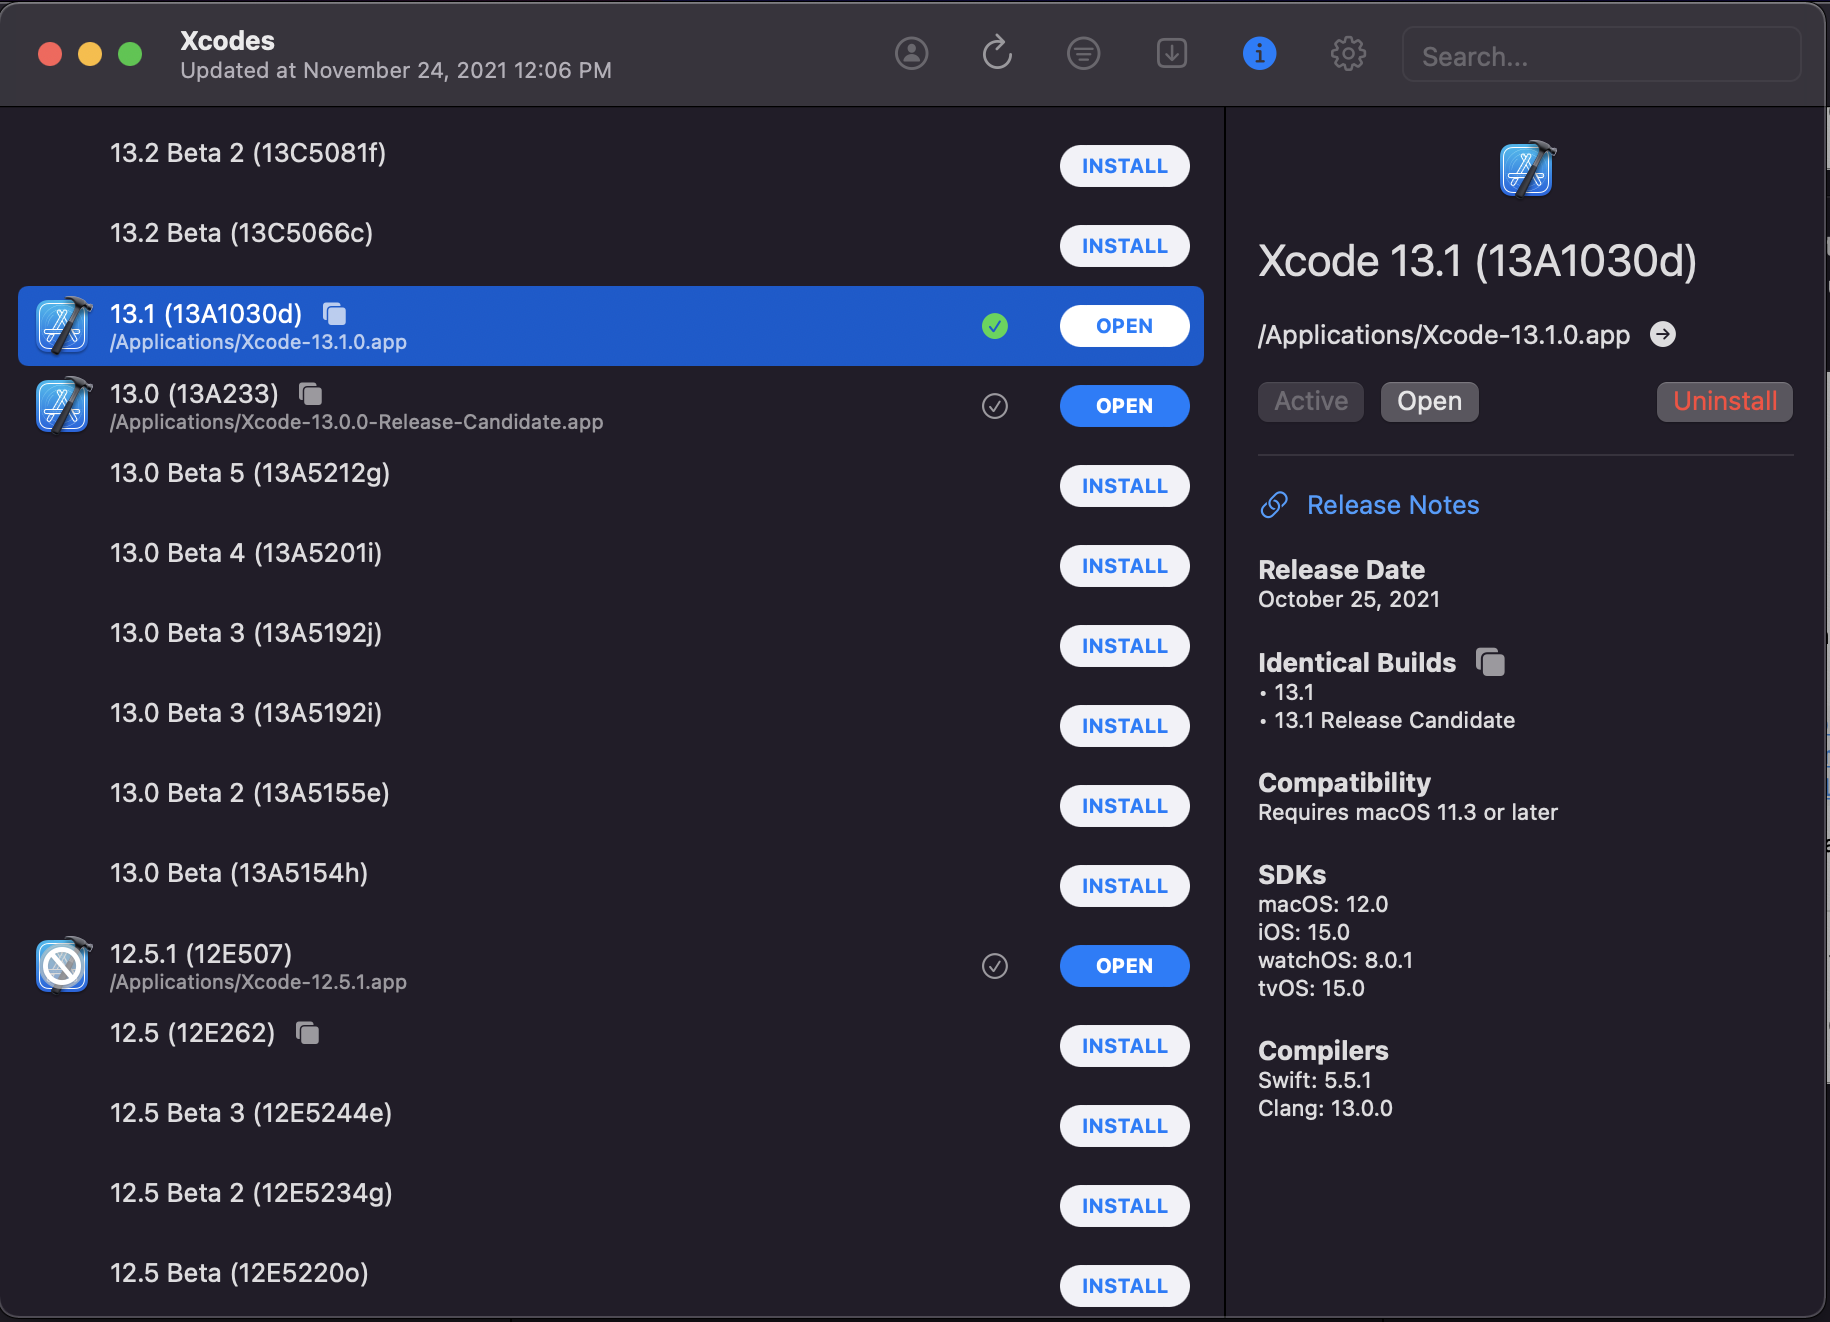
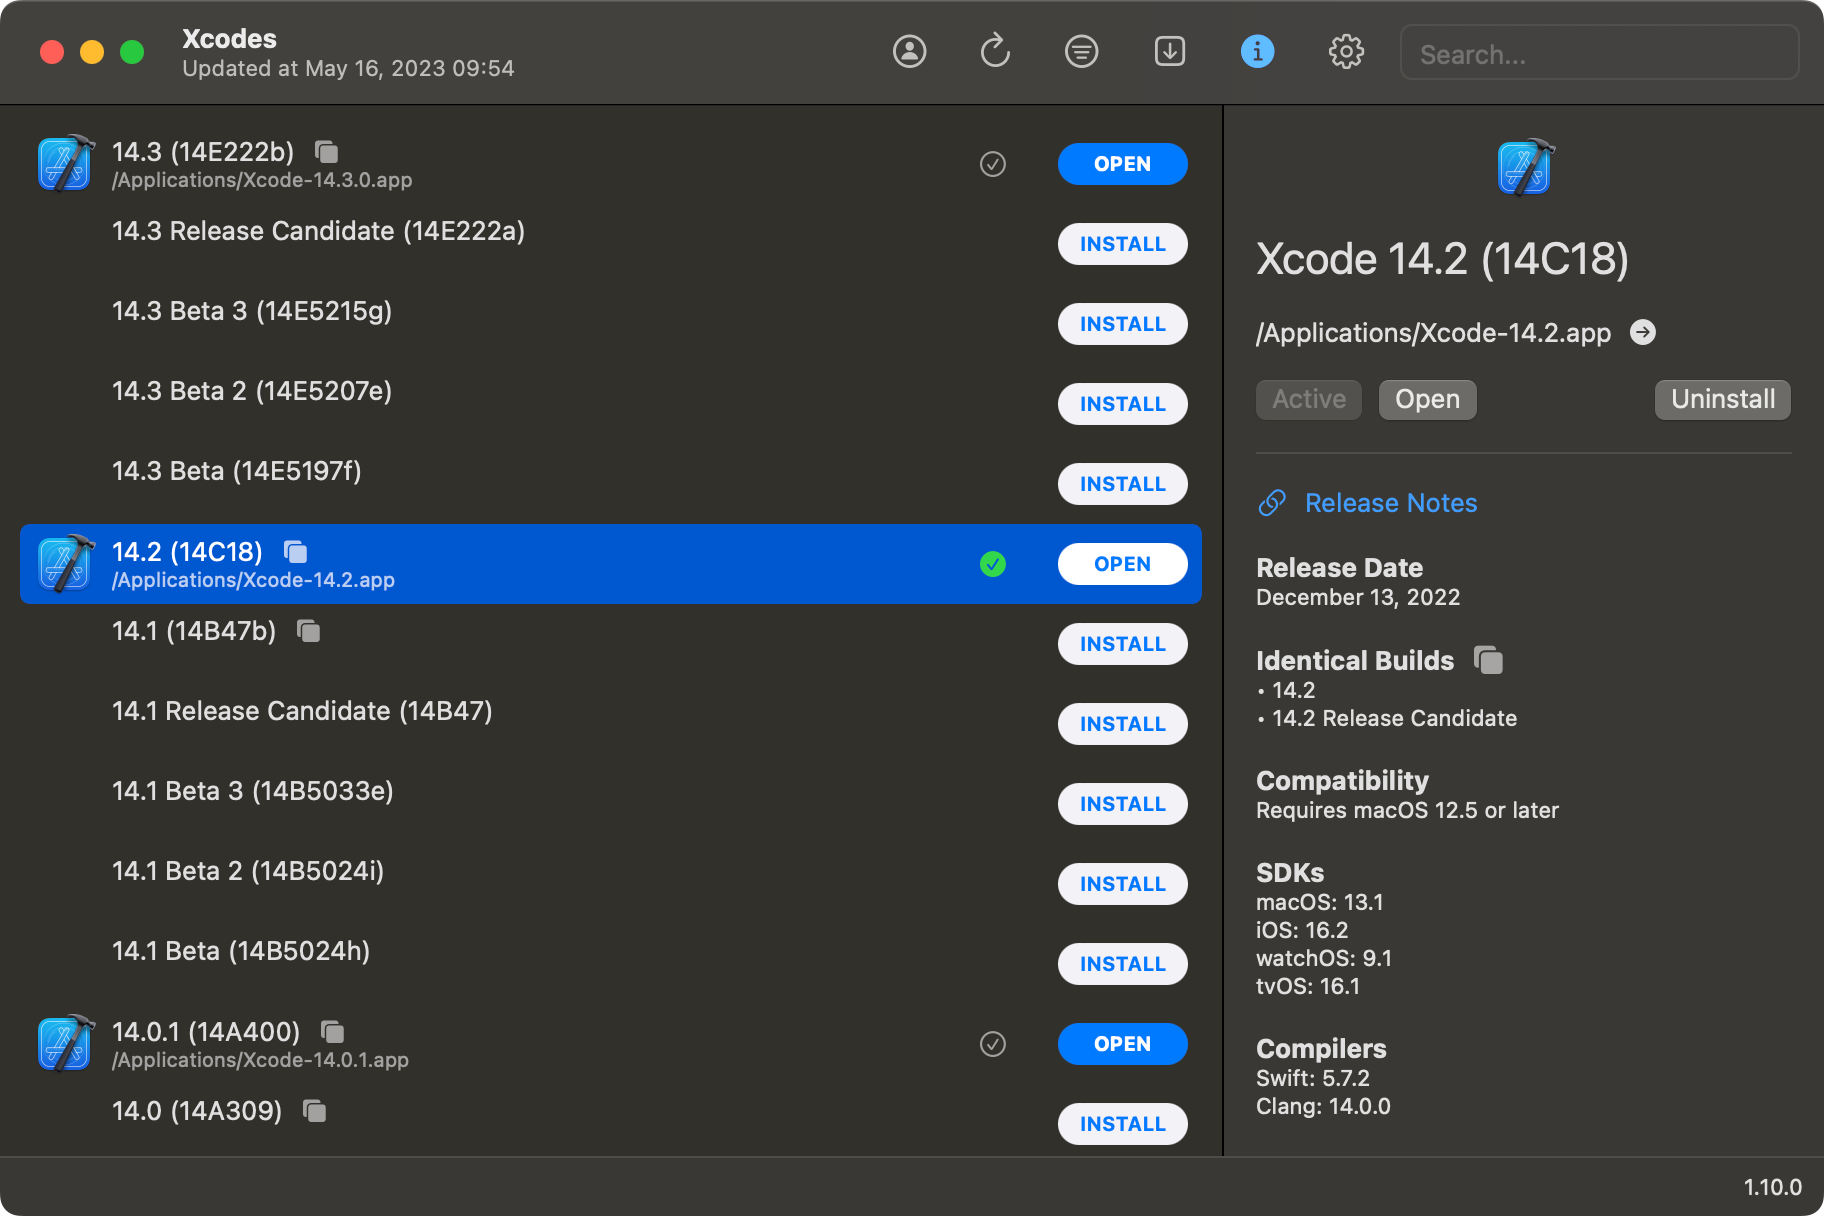
Updated readme
- Fixed broken CI badge
- Updated screenshots for current version
- Clearer wording for installation instruction titles (now it's clear these are separate/alternative processes rather than stages in the same process)
    - Pulled brew instructions out of the codeblock so that it wraps. Rephrased for the new position

diff --git a/README.md b/README.md
@@ -4,7 +4,7 @@ The easiest way to install and switch between multiple versions of Xcode.
 
 _If you're looking for a command-line version of Xcodes.app, try [`xcodes`](https://github.com/XcodesOrg/xcodes)._
 
-![CI](https://github.com/XcodesOrg/Xcodes.app/workflows/CI/badge.svg)
+![CI](https://github.com/XcodesOrg/XcodesApp/workflows/CI/badge.svg)
 
 ![](screenshot_light.png#gh-light-mode-only)
 ![](screenshot_dark.png#gh-dark-mode-only)
@@ -25,14 +25,14 @@ XcodesApp is now part of the `XcodesOrg` - [read more here](nextstep.md)
 
 ## Experiments
 
-- Thanks to the wonderful work of [https://github.com/saagarjha/unxip](https://github.com/saagarjha/unxip), turn on the experiment to increase your unxipping time by up to 70%! More can be found on his repo, but bugs, high memory may occur if used. 
+- Thanks to the wonderful work of [https://github.com/saagarjha/unxip](https://github.com/saagarjha/unxip), turn on the experiment to increase your unxipping time by up to 70%! More can be found on his repo, but bugs, high memory may occur if used.
 
-![](experiment_light.jpg#gh-light-mode-only)
-![](experiment_dark.jpg#gh-dark-mode-only)
+![](experiment_light.png#gh-light-mode-only)
+![](experiment_dark.png#gh-dark-mode-only)
 
 ## Localization
 
-Xcodes supports localization in several languages. 
+Xcodes supports localization in several languages.
 
 The following languages are supported because of the following community users!
 
@@ -47,20 +47,20 @@ The following languages are supported because of the following community users!
 |German 🇩🇪|[@drct](https://github.com/drct)|Dutch 🇳🇱|[@jfversluis](https://github/com/jfversluis)|
 |Brazilian Portuguese 🇧🇷|[@brunomunizaf](https://github.com/brunomunizaf)||
 
-Want to add more languages? Simply create a PR with the updated strings file. 
+Want to add more languages? Simply create a PR with the updated strings file.
 ## Installation
 
 Xcodes.app runs on macOS Big Sur 11.0 or later.
 
-### Homebrew Cask
+### Install with Homebrew
+
+Developer ID-signed and notarized release builds are available on Homebrew. These don't require Xcode to already be installed in order to use.
 
 ```sh
 brew install --cask xcodes
-
-# These are Developer ID-signed and notarized release builds and don't require Xcode to already be installed in order to use.
 ```
 
-### Download a release
+### Manually install
 
 1. Download the latest version [here](https://github.com/XcodesOrg/XcodesApp/releases/latest) using the **Xcodes.zip** asset. These are Developer ID-signed and notarized release builds and don't require Xcode to already be installed in order to use.
 2. Move the unzipped `Xcodes.app` to your `/Applications` directory
@@ -79,7 +79,7 @@ You'll need macOS 12 Big Sur and Xcode 13 in order to build and run Xcodes.app.
 # combine for universal binary
  lipo -create -output unxip unxip_intel unxip_m1  
 # check it
- lipo -archs unxip 
+ lipo -archs unxip
 ```
 
 Notable design decisions are recorded in [DECISIONS.md](./DECISIONS.md). The Apple authentication flow is described in [Apple.paw](./Apple.paw), which will allow you to play with the API endpoints that are involved using the [Paw](https://paw.cloud) app.
